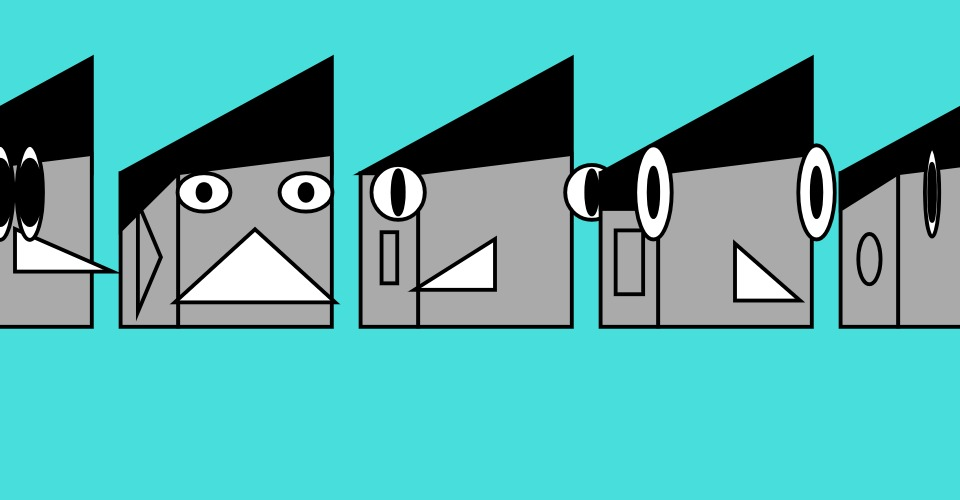
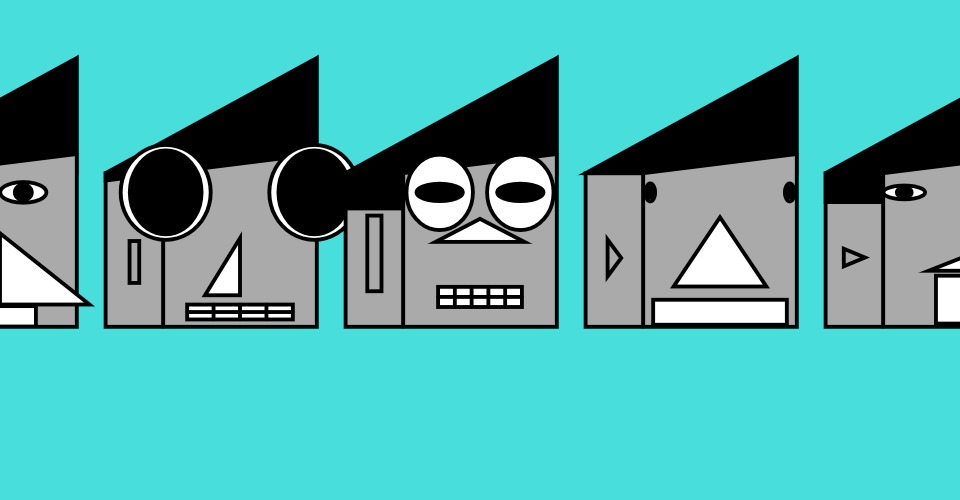
added mouth

diff --git a/face_code.js b/face_code.js
@@ -27,12 +27,16 @@ const minInnerEyeHeight=.1;
 const maxInnerEyeHeight=.9;
 const minEarY=-1;
 const maxEarY=1;
-const earShapes=["circle","triangle","square"];
+const earShapes=["circle","triangle","square","none"];
 const minInnerEarWidth=0.1;
 const maxInnerEarWidth=0.6;
 const minInnerEarHeight=.1;
 const maxInnerEarHeight=0.9;
-
+const minMouthHeight=.5;
+const minMouthWidth=.5;
+const maxMouthWidth=7
+const minNumberOfteeth=3;
+const maxNumberOfTeeth=8;
 class Face{
   
   headHeight=8;
@@ -73,7 +77,11 @@ class Face{
     this.earY=this.random(minEarY,maxEarY);
     this.innerEarWidth=this.earWidth*this.random(minInnerEarWidth,maxInnerEarWidth);
     this.innerEarHeight=this.headHeight*this.random(minInnerEarHeight,maxInnerEarHeight);
-   
+    this.mouthHeight=this.random(minMouthHeight,this.getMaxMouthHeight());
+    this.mouthWidth=this.random(minMouthWidth,maxMouthWidth);
+    this.hasTeeth=Math.random()<0.5;
+    this.mouthY=this.random(this.getMinMouthY(),this.getMaxMouthY());
+    this.numberOfteeth=Math.floor(this.random(minNumberOfteeth,maxNumberOfTeeth));
     // this.headHeight=8;
     // this.headWidth=8; 
     
@@ -90,6 +98,15 @@ class Face{
   }
   getMaxEyeX(){
     return this.headWidth/2+this.eyeWidth/2;
+  }
+  getMinMouthY(){
+    return this.noseY+this.noseHeight/2+this.mouthHeight/2; 
+  }
+  getMaxMouthY(){
+    return this.headHeight/2-this.mouthHeight/2;
+  }
+  getMaxMouthHeight(){
+    return this.headHeight/2-(this.noseY+this.noseHeight/2);
   }
   
   drawSkin(){
@@ -131,7 +148,14 @@ class Face{
   }
   drawMouth(){
     fill(this.mouthColour);
-
+    rectMode(CENTER);
+    rect(0,this.mouthY,this.mouthWidth,this.mouthHeight);
+    if(this.hasTeeth){
+      line(-this.mouthWidth/2,this.mouthY,this.mouthWidth/2,this.mouthY);
+      for(let i=1;i<this.numberOfteeth;i++){
+        line(-this.mouthWidth/2+this.mouthWidth/this.numberOfteeth*i,this.mouthY-this.mouthHeight/2,-this.mouthWidth/2+this.mouthWidth/this.numberOfteeth*i,this.mouthY+this.mouthHeight/2);
+      }
+    }
   }
   drawHair(){
     fill(this.hairColour);

diff --git a/editor.html b/editor.html
@@ -97,23 +97,23 @@
                     <td id="slider15Container"></td>
                 </tr>
                 <tr>
-                    <td>inner eye height</td>
+                    <td>has teeth</td>
                     <td id="slider16Container"></td>
                 </tr>
                 <tr>
-                    <td>inner eye height</td>
+                    <td>mouth width</td>
                     <td id="slider17Container"></td>
                 </tr>
                 <tr>
-                    <td>inner eye height</td>
+                    <td>mouth height</td>
                     <td id="slider18Container"></td>
                 </tr>
                 <tr>
-                    <td>inner eye height</td>
+                    <td>mouth y</td>
                     <td id="slider19Container"></td>
                 </tr>
                 <tr>
-                    <td>inner eye height</td>
+                    <td>Number of teeth</td>
                     <td id="slider20Container"></td>
                 </tr>
                 <tr>

diff --git a/editor.js b/editor.js
@@ -133,6 +133,12 @@ function draw () {
    face.earY=map(s13, 0, 100, minEarY, maxEarY);
    face.innerEarWidth=face.earWidth*map(s14, 0, 100, minInnerEarWidth, maxInnerEarWidth);
    face.innerEarHeight=face.headHeight*map(s15, 0, 100, minInnerEarHeight, maxInnerEarHeight);
+   face.hasTeeth=0.5<map(s16, 0, 100, 0,1);
+   face.mouthWidth=map(s17, 0, 100, minMouthWidth,maxMouthWidth);
+   face.mouthHeight=map(s18,0,100,minMouthHeight,face.getMaxMouthHeight());
+   face.mouthY=map(s19, 0, 100, face.getMinMouthY(), face.getMaxMouthY());
+   face.numberOfteeth=Math.floor(map(s20, 0, 100, minNumberOfteeth,maxNumberOfTeeth));
+   
    face.drawFace();
   
 

diff --git a/README.md b/README.md
@@ -1,1 +1,1 @@
-I have made it so the eyes have to be connected to the head because when the eyeX var was large and the eye width was small the eyes could be off the side of the face. This works much better but I am considering having it so the eyes cannot stick out as far off the edge and have to have the centre of them on the face but I am not sure. 
+I have added the mouth. The mouth can have its y position moved its width and height changed as well as be told whether to have teeth or not and the number of them to have. I think this works really well although there are times now where like the eyes where the inner eye can fill the white of the eyes completely, the mouth can just look black because there are too many teeth in a small mouth 
